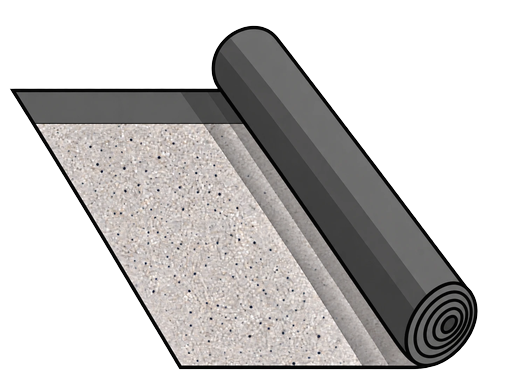
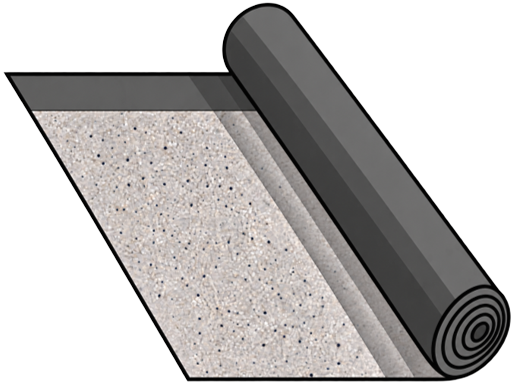
砂付ルーフィングの絵を差し替え
Claude-Session: https://claude.ai/code/session_01PgXzQNeJmnijS3Si1WGKy4

diff --git a/index.html b/index.html
@@ -395,7 +395,7 @@ nav, nav#nav{overflow:visible; padding-top:2px;}
 
 <!-- 版の表示：スマホに届いている中身がどれかを、お互いに確認するための小さな印。
      不要になったらこの1行と #nnver の指定を消してください。 -->
-<div id="nnver">v2026-09-30 f</div>
+<div id="nnver">v2026-09-30 g</div>
 <script>
 /* ============ 実機の計測結果を表示（原因調査用・2026-07-28） ============
    数字の意味（単位はミリ秒）
@@ -746,7 +746,7 @@ nav, nav#nav{justify-content:center !important; padding-left:6px !important; pad
    古いものが出続けることがある。そこで ver.txt（数バイト）だけを
    毎回見に行き、公開版と違っていたら保存分を捨てて1回だけ読み直す。
    ★公開のたびに ver.txt と、下の NN_VER を同じ文字に更新すること。 */
-const NN_VER='2026-09-30f';
+const NN_VER='2026-09-30g';
 /* ============ 表示にかかった時間の記録（原因調査用・2026-07-28） ============
    スマホの実機でどこに時間がかかっているかを数字で出す。
    ・net  ＝ページを要求してから最初の返事が来るまで（通信の待ち）
@@ -1963,7 +1963,7 @@ html:not([data-nnphone="1"]) nav#nav .ni.hasimg.on:hover{transform:scale(1.10) !
 <script src="./kou_hq.js?v=2026-09-26q"></script>
 <script src="./nn_select.js?v=2026-09-25n"></script>
 <script src="./nn_scrolllock.js?v=2026-09-25c"></script>
-<script src="./nn_matill.js?v=2026-09-30c"></script>
+<script src="./nn_matill.js?v=2026-09-30g"></script>
 <script src="./nn_master.js?v=2026-09-29i"></script>
 <script src="./nn_photos.js?v=2026-09-29h"></script>
 <script src="./nn_seikyu.js?v=2026-09-29g"></script>

diff --git a/kirokucho_demo.html b/kirokucho_demo.html
@@ -4842,7 +4842,7 @@ nav, nav#nav{justify-content:center !important; padding-left:6px !important; pad
    古いものが出続けることがある。そこで ver.txt（数バイト）だけを
    毎回見に行き、公開版と違っていたら保存分を捨てて1回だけ読み直す。
    ★公開のたびに ver.txt と、下の NN_VER を同じ文字に更新すること。 */
-const NN_VER='2026-09-30f';
+const NN_VER='2026-09-30g';
 /* ============ 表示にかかった時間の記録（原因調査用・2026-07-28） ============
    スマホの実機でどこに時間がかかっているかを数字で出す。
    ・net  ＝ページを要求してから最初の返事が来るまで（通信の待ち）
@@ -9633,7 +9633,7 @@ html body #dashboard .dash-settings-btn{display:inline-flex;align-items:center;g
 <script src="./kou_hq.js?v=2026-09-26q"></script>
 <script src="./nn_select.js?v=2026-09-25n"></script>
 <script src="./nn_scrolllock.js?v=2026-09-25c"></script>
-<script src="./nn_matill.js?v=2026-09-30c"></script>
+<script src="./nn_matill.js?v=2026-09-30g"></script>
 <script src="./nn_master.js?v=2026-09-29i"></script>
 <!-- ★2026-09-25a スマホ：新規物件登録を見直し（本人の指摘4点）
      ①日付欄（着工日など）が隣の列へはみ出して重なる → iPhoneの日付欄は固有の幅を持つので、見た目の既定をやめて幅100%に

diff --git a/zairyo_toroku.html b/zairyo_toroku.html
@@ -503,7 +503,7 @@ nav::-webkit-scrollbar{display:none;}
 }
 </style>
 <link rel="prefetch" href="./index.html"><link rel="prefetch" href="./kirokucho_demo.html"><link rel="prefetch" href="./genba_map_v36.html"><link rel="prefetch" href="./hacchu.html"><link rel="prefetch" href="./camera.html"><link rel="prefetch" href="./kokkosho.html">
-<script src="./nn_matill.js?v=2026-09-30c"></script>   <!-- ★§551 一覧の最初の描画より先に読む（あとだと一覧に絵が出ない） -->
+<script src="./nn_matill.js?v=2026-09-30g"></script>   <!-- ★§551 一覧の最初の描画より先に読む（あとだと一覧に絵が出ない） -->
 </head>
 <body>
 
@@ -1585,7 +1585,7 @@ nav, nav#nav{justify-content:center !important; padding-left:6px !important; pad
    古いものが出続けることがある。そこで ver.txt（数バイト）だけを
    毎回見に行き、公開版と違っていたら保存分を捨てて1回だけ読み直す。
    ★公開のたびに ver.txt と、下の NN_VER を同じ文字に更新すること。 */
-const NN_VER='2026-09-30f';
+const NN_VER='2026-09-30g';
 /* ============ 表示にかかった時間の記録（原因調査用・2026-07-28） ============
    スマホの実機でどこに時間がかかっているかを数字で出す。
    ・net  ＝ページを要求してから最初の返事が来るまで（通信の待ち）

diff --git a/camera.html b/camera.html
@@ -1271,7 +1271,7 @@ nav, nav#nav{justify-content:center !important; padding-left:6px !important; pad
    古いものが出続けることがある。そこで ver.txt（数バイト）だけを
    毎回見に行き、公開版と違っていたら保存分を捨てて1回だけ読み直す。
    ★公開のたびに ver.txt と、下の NN_VER を同じ文字に更新すること。 */
-const NN_VER='2026-09-30f';
+const NN_VER='2026-09-30g';
 /* ============ 表示にかかった時間の記録（原因調査用・2026-07-28） ============
    スマホの実機でどこに時間がかかっているかを数字で出す。
    ・net  ＝ページを要求してから最初の返事が来るまで（通信の待ち）

diff --git a/genba_map_v36.html b/genba_map_v36.html
@@ -5019,7 +5019,7 @@ nav, nav#nav{justify-content:center !important; padding-left:6px !important; pad
    古いものが出続けることがある。そこで ver.txt（数バイト）だけを
    毎回見に行き、公開版と違っていたら保存分を捨てて1回だけ読み直す。
    ★公開のたびに ver.txt と、下の NN_VER を同じ文字に更新すること。 */
-const NN_VER='2026-09-30f';
+const NN_VER='2026-09-30g';
 /* ============ 表示にかかった時間の記録（原因調査用・2026-07-28） ============
    スマホの実機でどこに時間がかかっているかを数字で出す。
    ・net  ＝ページを要求してから最初の返事が来るまで（通信の待ち）

diff --git a/hacchu.html b/hacchu.html
@@ -1103,7 +1103,7 @@ nav, nav#nav{justify-content:center !important; padding-left:6px !important; pad
    古いものが出続けることがある。そこで ver.txt（数バイト）だけを
    毎回見に行き、公開版と違っていたら保存分を捨てて1回だけ読み直す。
    ★公開のたびに ver.txt と、下の NN_VER を同じ文字に更新すること。 */
-const NN_VER='2026-09-30f';
+const NN_VER='2026-09-30g';
 /* ============ 表示にかかった時間の記録（原因調査用・2026-07-28） ============
    スマホの実機でどこに時間がかかっているかを数字で出す。
    ・net  ＝ページを要求してから最初の返事が来るまで（通信の待ち）

diff --git a/kokkosho.html b/kokkosho.html
@@ -2448,7 +2448,7 @@ nav, nav#nav{justify-content:center !important; padding-left:6px !important; pad
    古いものが出続けることがある。そこで ver.txt（数バイト）だけを
    毎回見に行き、公開版と違っていたら保存分を捨てて1回だけ読み直す。
    ★公開のたびに ver.txt と、下の NN_VER を同じ文字に更新すること。 */
-const NN_VER='2026-09-30f';
+const NN_VER='2026-09-30g';
 /* ============ 表示にかかった時間の記録（原因調査用・2026-07-28） ============
    スマホの実機でどこに時間がかかっているかを数字で出す。
    ・net  ＝ページを要求してから最初の返事が来るまで（通信の待ち）

diff --git a/library.html b/library.html
@@ -1170,7 +1170,7 @@ nav, nav#nav{justify-content:center !important; padding-left:6px !important; pad
    古いものが出続けることがある。そこで ver.txt（数バイト）だけを
    毎回見に行き、公開版と違っていたら保存分を捨てて1回だけ読み直す。
    ★公開のたびに ver.txt と、下の NN_VER を同じ文字に更新すること。 */
-const NN_VER='2026-09-30f';
+const NN_VER='2026-09-30g';
 /* ============ 表示にかかった時間の記録（原因調査用・2026-07-28） ============
    スマホの実機でどこに時間がかかっているかを数字で出す。
    ・net  ＝ページを要求してから最初の返事が来るまで（通信の待ち）

diff --git a/shiyo_toroku.html b/shiyo_toroku.html
@@ -1665,7 +1665,7 @@ nav, nav#nav{justify-content:center !important; padding-left:6px !important; pad
    古いものが出続けることがある。そこで ver.txt（数バイト）だけを
    毎回見に行き、公開版と違っていたら保存分を捨てて1回だけ読み直す。
    ★公開のたびに ver.txt と、下の NN_VER を同じ文字に更新すること。 */
-const NN_VER='2026-09-30f';
+const NN_VER='2026-09-30g';
 /* ============ 表示にかかった時間の記録（原因調査用・2026-07-28） ============
    スマホの実機でどこに時間がかかっているかを数字で出す。
    ・net  ＝ページを要求してから最初の返事が来るまで（通信の待ち）

diff --git a/yougo.html b/yougo.html
@@ -1406,7 +1406,7 @@ nav, nav#nav{justify-content:center !important; padding-left:6px !important; pad
    古いものが出続けることがある。そこで ver.txt（数バイト）だけを
    毎回見に行き、公開版と違っていたら保存分を捨てて1回だけ読み直す。
    ★公開のたびに ver.txt と、下の NN_VER を同じ文字に更新すること。 */
-const NN_VER='2026-09-30f';
+const NN_VER='2026-09-30g';
 /* ============ 表示にかかった時間の記録（原因調査用・2026-07-28） ============
    スマホの実機でどこに時間がかかっているかを数字で出す。
    ・net  ＝ページを要求してから最初の返事が来るまで（通信の待ち）

diff --git a/zumen_sekisan.html b/zumen_sekisan.html
@@ -6293,7 +6293,7 @@ nav, nav#nav{justify-content:center !important; padding-left:6px !important; pad
    古いものが出続けることがある。そこで ver.txt（数バイト）だけを
    毎回見に行き、公開版と違っていたら保存分を捨てて1回だけ読み直す。
    ★公開のたびに ver.txt と、下の NN_VER を同じ文字に更新すること。 */
-const NN_VER='2026-09-30f';
+const NN_VER='2026-09-30g';
 /* ============ 表示にかかった時間の記録（原因調査用・2026-07-28） ============
    スマホの実機でどこに時間がかかっているかを数字で出す。
    ・net  ＝ページを要求してから最初の返事が来るまで（通信の待ち）

diff --git a/nn_matill.js b/nn_matill.js
@@ -10,7 +10,7 @@
    ============================================================ */
 (function(){ 'use strict';
 if(window.nnMatIll) return;
-var ILL_VER='2026-09-30c';   /* ★絵を同じ名前で差し替えたら上げる（上げないと古い絵が出続ける） */
+var ILL_VER='2026-09-30g';   /* ★絵を同じ名前で差し替えたら上げる（上げないと古い絵が出続ける） */
 var KUBUN=[
  ['asphalt_compound','アスファルトコンパウンド','#6b4a2a'],
  ['primer','プライマー','#8a5a12'],
